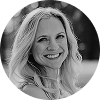
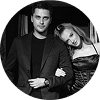
Set biography mobile carousel to tap with autoplay

diff --git a/js/biography.js b/js/biography.js
@@ -1,9 +1,9 @@
 /*
-Версия: biography-js-055-carousel-controls
+Версия: biography-js-093-mobile-tap-auto-carousel
 ИЗМЕНЕНИЯ:
-- ускорена автоматическая смена фотографий биографии в 1.5 раза.
-- desktop: добавлены обработчики стрелок внутри фотографии.
-- mobile: добавлен горизонтальный свайп фотографий без изменения логики меню.
+- mobile: смена фотографий биографии переведена со свайпа на тап по фотографии.
+- mobile: автоматическая смена фотографий сохранена.
+- desktop: автоматическая смена и стрелки карусели сохранены без изменений.
 */
 
 (function(){
@@ -59,9 +59,6 @@
   var carouselTimer = null;
   var resizeFrame = null;
 
-  var carouselTouchStartX = null;
-  var carouselTouchStartY = null;
-  var carouselTouchStartTime = 0;
 
   var touchStartY = null;
   var touchStartedInsideMenu = false;
@@ -313,75 +310,17 @@
       });
     }
 
-    carousel.addEventListener(
-      'touchstart',
-      function(event){
-        if(!isMobile()){
-          return;
-        }
+    carousel.addEventListener('click', function(event){
+      if(!isMobile()){
+        return;
+      }
 
-        var touch = event.touches && event.touches[0];
+      event.preventDefault();
+      event.stopPropagation();
 
-        if(!touch){
-          return;
-        }
-
-        carouselTouchStartX = touch.clientX;
-        carouselTouchStartY = touch.clientY;
-        carouselTouchStartTime = Date.now();
-      },
-      { passive:true }
-    );
-
-    carousel.addEventListener(
-      'touchend',
-      function(event){
-        if(
-          !isMobile() ||
-          carouselTouchStartX === null ||
-          carouselTouchStartY === null
-        ){
-          carouselTouchStartX = null;
-          carouselTouchStartY = null;
-          carouselTouchStartTime = 0;
-          return;
-        }
-
-        var touch = event.changedTouches && event.changedTouches[0];
-
-        if(!touch){
-          carouselTouchStartX = null;
-          carouselTouchStartY = null;
-          carouselTouchStartTime = 0;
-          return;
-        }
-
-        var deltaX = touch.clientX - carouselTouchStartX;
-        var deltaY = touch.clientY - carouselTouchStartY;
-        var elapsed = Date.now() - carouselTouchStartTime;
-
-        carouselTouchStartX = null;
-        carouselTouchStartY = null;
-        carouselTouchStartTime = 0;
-
-        if(
-          Math.abs(deltaX) < 42 ||
-          Math.abs(deltaX) <= Math.abs(deltaY) * 1.25 ||
-          elapsed > 900
-        ){
-          return;
-        }
-
-        if(deltaX < 0){
-          showNextSlide();
-        }else{
-          showPreviousSlide();
-        }
-
-        restartCarousel();
-      },
-      { passive:true }
-    );
+      showNextSlide();
+      restartCarousel();
+    });
   }
 
   function openMenu(){